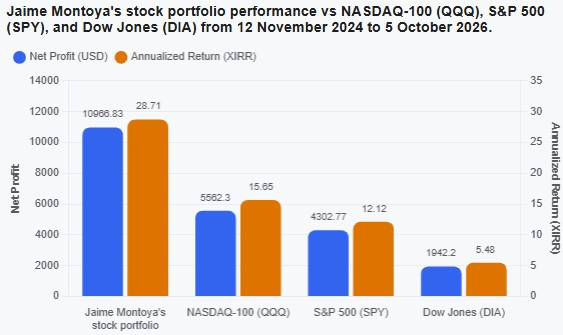
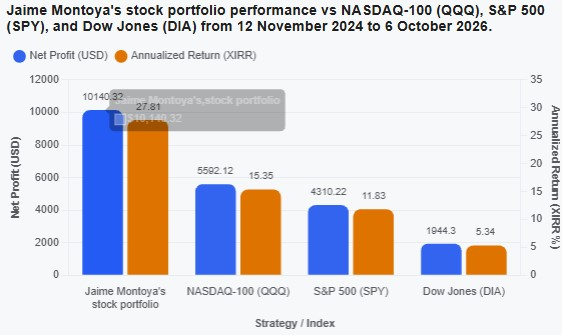
Update graph.

diff --git a/index.php b/index.php
@@ -154,11 +154,11 @@
   <h2 style=\"cursor: default; user-select: none; -webkit-font-smoothing: antialiased; font-family: Arial; font-size: 16px; font-weight: bold;\">Jaime Montoya's stock portfolio performance vs NASDAQ-100 (QQQ), S&P 500 (SPY), and Dow Jones (DIA) from 12 November 2024 to 6 October 2026.</h2>
   <img src=\"beat-the-market/jaimeMontoyasPortfolioBeatingTheMarket.jpg\" 
      alt=\"Jaime Montoya's Portfolio beating the market\" 
-     width=\"563\" 
+     width=\"562\" 
      height=\"335\" 
      style=\"max-width: 100%; height: auto;\">
 	 
-<!-- Credits: https://share.google/aimode/PZED86KgEsBxeXJRk -->
+<!-- Credits: https://share.google/aimode/HSQ0zdWOokfq8otas -->
   ";
   $index->Display();
 ?>
